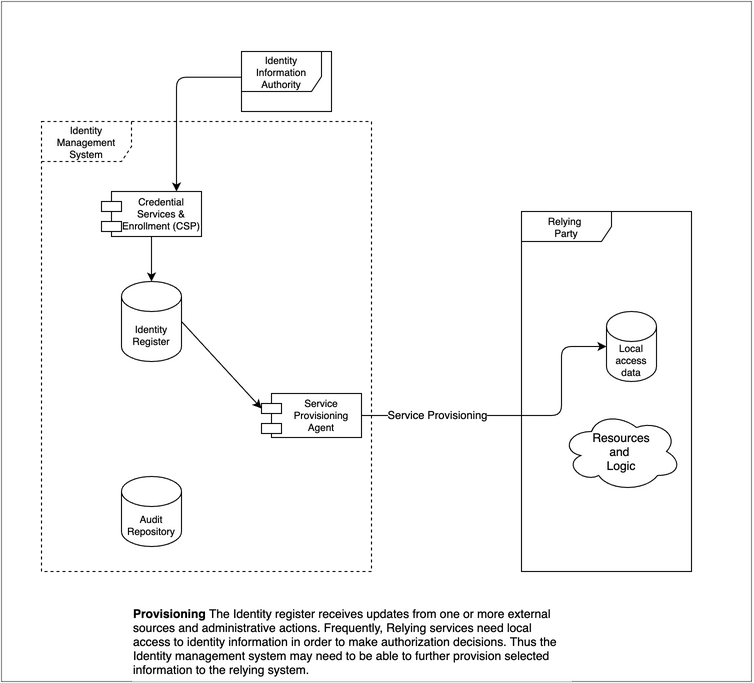
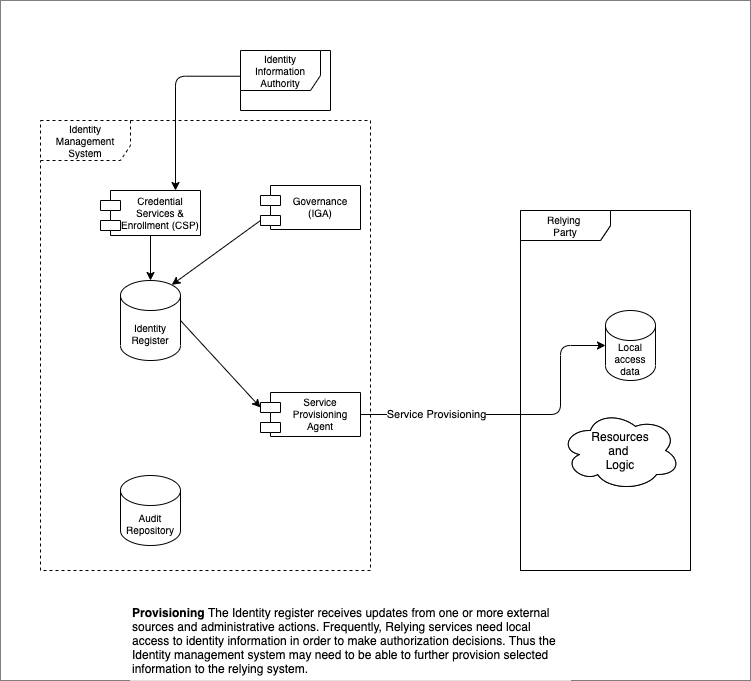
passed through intro part 3

diff --git a/tech-arch.md b/tech-arch.md
@@ -8,11 +8,11 @@ This article provides a reference model to organize the presentation of technica
 
 To move out of the conceptual realm into specifics additional articles follow, each with a focus on a specific technical use-cases. Each such use-case indicates which of the abstract components comprise a particular implementation 
 
-The model is a restatement/extension of the ISO/IEC framing [Note 1]. Some UML detail has been removed for simplicity. The IAM model has been extended so that authorization, governance and risk-control can be included.
+The model is a started with the ISO/IEC framing [Note 1]. The UML detail has been removed for simplicity and the IAM model has been extended so that authorization, governance and risk-control can be included.
 
-Some of the ISO/IEC names have been changed to reflect more common usage. In come cases, the ISO names have been used in a way that is more expansive than their definition.
+Some of the ISO/IEC names have been changed to reflect more common usage. In some cases, the ISO names have been used in a way that is more expansive than their definition.
 
-The model has been reviewed in conjunction with the FICAM, Internet 2, and NIST Zero Trust frameworks.
+The model has been reviewed in conjunction with the FICAM, Internet 2, NIST SP-800-63 definitions, and NIST Zero Trust frameworks and with the Identity Stack presented at Identiverse 2019 in an attempt to adopt the most useful terminology.
 
 Introduction
 ------------
@@ -65,7 +65,7 @@ A credential allows for authentication of an entity by binding an identity to an
 
 ### Credential Services
 
-Credential Services  issue or register the subscriber authenticators, delivers  the credential for use, and subsequently manages the credentials.   FICAM separates this into a first-class component called Credential Management System, which also includes PKI information for federation.  We follow FICAM in this model: so the subscriber will include system components that need certificates and private keys.  We also place the function known as Security Token Service here, including services that translate one type of token into another.
+Credential Services  issue or register the subscriber authenticators, delivers  the credential for use, and subsequently manages the credentials.   FICAM separates this into a first-class component called Credential Management System, which also includes PKI information for federation.  We follow FICAM in this model: so the subscriber will include system components that need certificates and private keys.  
 
 ### Credential Service Provider (CSP)
 
@@ -73,11 +73,11 @@ Following NIST 800-63-3 we include both the enrollment function and credential s
 
 ### Identity Register
 
-This is the data store that contains the enroled entities, and their attributes.  We use this to include the storage related to credentials, although in practice, all or some of the credentials may be stored in their own physical repository.  
+This is the data store that contains the enrolled entities, and their attributes.  In this model we use the singular, as if it were one singular database.  In practice designs may store some attributes separate from identities. We also use this to include the storage related to credentials, although in practice, all or some of the credentials may be stored in their own physical repository.  Identity Registers by their nature have high availability requirements, so often at the physical level they contain multiple instances which are synchronized.  The term Attribute Store is sometimes used as a synonym.
 
 ### Authentication (AUTHN)
 
-The act of determining that the principal/subject is authentic to a level of assurance. In this model this is shown as a collaborative activity between the IMS and the RSVC. The FICAM model, at a more abstract level, includes this in the first-class component called Access Management.
+The act of determining that the principal/subject is authentic to a level of assurance. Depending on the architecture this function may also produce a security token to convey authentication information securely to the RP.
 
 ### Session (SESS)
 
@@ -85,7 +85,15 @@ A period of time after an authentication event when an RSVC grants access to the
 
 ### Authorization (AUTHZ)
 
-Authorization is how a decision is made to allow someone to access a resource. This is not included in the ISO or Internet 2 models. The FICAM framework includes this as a subcomponent of the Access Management System and is more explicit about the location of the implementation of the authorization
+Authorization is how a decision is made at run-time to allow someone to access a resource. This is not included in the ISO or Internet 2 models. The FICAM framework includes this as a subcomponent of the Access Management System and is more explicit about the location of the implementation of the authorization. 
+
+### Entitlement
+
+The artifact that allows access to a resource by a principal.  This is equivalant to privilege, access right, permission.  Sometimes it is called an authorization.  An etitlement can be implmented in a variety of ways.  
+
+### Enforcement 
+
+The mechanism that ensures an individual cannot perform an action or access a system when prohibited by policy. 
 
 ### Access Governance (IGA)
 
@@ -102,30 +110,46 @@ Control data that allows the Identity Management System to recognize and trust t
 Provisioning
 ------------
 
-Provisioning is a term that encompases the processes and methods that create, modify, and, eventually, delete the identity and profile information used by IT infrastructure and business applications. By these method, records are created, or updated in the identity repository, and removed from it.  Often, provisioing needs to extend to applications  to support authorization decisions.
+Provisioning is a term that encompases the processes and methods that create, modify, and, eventually, delete the identity and profile information used by IT infrastructure and business applications. By these method, records are created, or updated in the identity repository, and removed from it.  Often, provisioing needs to extend to applications  to support authorization decisions.  The term "Onboarding" is sometimes used to refer to the sum of the initial provisioning activities, in both the identity and access aspects.
+
+#### Identity Information Authorities
 
 Note that the authoritative sources for identity attributes transcend the HR system and may include the email system, phone system, training certification etc. In some cases, a company may have more than one HR system.
 
 The act of provisioning may include certain logic, best modeled as governance.  In some cases the IGA system actually takes on all the provisioning duties. 
 
-Also note, the notion of importing data does not necessarily mean making a physical copy of data, although it often does. The notion also supports the idea of virtualization - where the import of identity information is done at run-time.
+#### Identity Register
 
 The Identity Register could be implemented in several ways. Common methods include the use of general-purpose databases, optimized stores such directories i.e., a physical or a virtual directory.
 
-Also shown, is the Principal and Credential Management function. This is intended to include steps needed to originate an identity (such as proofing or vetting) as well as on-going maintenance such as password reset and other credential management activities such as token provisioning. This function includes administrative activities and self-serve activities.
+Importing data does not necessarily mean making a physical copy of data, although it often does. The notion also supports the idea of virtualization - where the import of identity information is done at run-time.
 
 Also noted is the function of propagating selected information further into the ecosystem. This typically occurs when a relying services needs additional information about the users, e.g. for the purpose of access control, or personalization. The relying system makes a copy of the identity data and that is used in the application processes. A complete solution will allow for the full lifecycle including creation, update and eventual deletion of the identity data stored locally.
 
+#### Credential Services & Enrollment 
+
+This function includes steps needed to originate and activate an identity. It is also concerned with on-going maintenance such as password reset and key rotation.  This function includes administrative activities and self-serve activities.
+
+##### Enrollment
+
+Also sometimes known as Registration. It involves such activities as proofing, verfication or vetting, and recording sponsorship, if needed.  It also is responsible for the secure delivery of credentials. Enrollment ends when a user formally receives ownership of their digital identity and assumes control/ownership of their account’s credentials. 
+
+##### Credential Services
+
+Credential service include the creation and binding of passwords, cryptographic keys and other authenticators. It is also concerned with on-going maintenance such as password reset and key rotation.  It also is in charge of revoking credentials as needed.
+
+#### Just in Time
+
 So far, the provisioning function is restricted to "admin-time".  However, there are some cases where provisioning occurs at run time. 
 
-Not shown here, but sometimes implemented, are provisioning actions that occur on a just-in-time basis. This can happen when additional identity information is passed to a relying service in real-time to support a specific application requirement, possibly including identity attributes. A similar case involves the relying service querying the identity management system in order to acquire attributes.
+Not shown here, but sometimes implemented, are provisioning actions that occur on a just-in-time basis. This can happen when additional identity information is passed to a relying service in real-time to support a specific application requirement, possibly including identity attributes. A similar case involves the relying service querying the identity management system in order to acquire attributes (Shown under Authorization)
 
 ![Diagram Description automatically generated](resources/provisioning.png){width="6.268055555555556in" height="5.839583333333334in"}
 
 Authentication and sessions
 ---------------------------
 
-Authentication is the process by which a subject's credentials are used to verify their identity. The Identity Management System checks and verifies credentials that are presented to it. Typically, the Relying Service presents the credentials on behalf of the user and receives an assessment from the IMS regarding the level of certainty that the user is authentic. There are multiple scenarios.
+Authentication is the process by which a subject's credentials are used to verify their identity. The Identity Management System checks and verifies credentials that are presented to it. There are multiple scenarios. Typically, the Relying Service presents the credentials on behalf of the user and receives an assessment from the IMS regarding the level of certainty that the user is authentic. Often the assessment (and more information about the user) is delivered to the RP via a security token, which is protected by cryptography. There are several varities of security tokens.  
 
 A common pattern is to associate the authentication event with the start of a session. The session is mostly the concern of the relying system. However, it is sometimes desirable to keep the sessions supported by several relying parties in synch. For instance, logging out of one session will terminate concurrent sessions. To do this, often the Identity Management System will act to orchestrate sessions termination. In high security environments, session management must support termination based on real-time identity data such as when a user's entitlements have been modified.
 
@@ -142,31 +166,73 @@ Authorization models are many and diverse. The diagram illustrates two approache
 
 Both approaches typically use subject attributes help determine access. These values may have been provisioned into a local store, in the Provisioning process described above. Or the values can be acquired at run-time from the Identity Management System as shown by the attribute query.
 
-Many relying services perform authorization tasks internally. Often the fine-grained access control required by a protected resource makes this appealing. For instance, a financial management system may maintain a user's entitlements to specific functionality with the application.
+#### Local Authoriziation
 
-Sometimes authorization is a shared resource for many relying services. This design can improve consistency of authorization decisions and supports organizations wishing to include advanced access decisions strategies such as those required by a \"Zero Trust\" access control approach, as described by NIST 800-207. Shared authorization systems typically have a consistent approach to policy such as a standardized policy language.
+Many relying services perform authorization tasks internally. Often the fine-grained access control required by a protected resource makes this appealing. For instance, a financial management system may maintain a user's entitlements to specific functionality with the application.  In this scenario the application makes the authorization decision and implements (enforces) the result.
+
+#### Shared Authorization
+
+Sometimes authorization is a shared resource for many relying services. This design can improve consistency of authorization decisions and supports organizations wishing to include advanced access decisions strategies such as those required by a \"Zero Trust\" access control approach, as described by NIST 800-207. Shared authorization systems typically have a consistent approach to policy such as a standardized policy language. In this scenario the application ask the shared authorization function to make the decision but implements (enforces) that itself.
+
+#### Layers
+
+This distinction between local and shared authorization is not precisely the same as that between the commonly used terms "coarse-grained" and "fine-grained" access control.  Consider a web-based application that is protected by a reverse proxy.  The user logs-in a the reverse proxy which determines which applications the user has access to.  The reverse proxy implements coarse grained access control only, since the it knows nothing about the fine-grained rules implemented by the application.  
+
+### Authorization Mechanisms
+
+In either approach, the access rights may be established, maintained and revoked in a variety of ways, starting with the existence and validity of the digital identity. Other controls include various mechanisms such as policies, the mapping of roles, permissions, and identities. Some controls rely on user attributes including group memberships or roles stored in an Identity Register. 
+
+Each mechanism relies and a particular logical data structure to implement the access control and that data structure becomes and object of engineering, although it may seem that good results derive from both art and science.  For instance, in role based access control, there is some art involved "Role Management", or defining and managing a useful set of roles, since too many roles becomes difficult to manage and too few leads to users with access to things they don't need. Similarly, in the case of policy based access control the set of policies (the Policy Rules) needs to be stored and managed.
+
+The process of setting up the system to allow for authorization is described in the next section (Access Governance).
 
 ![Diagram Description automatically generated](resources/authorization-models.png){width="6.268055555555556in" height="5.809027777777778in"}
 
-Access governance (IGA)
------------------
+## Access governance (IGA)
 
-Access Governance provides oversight and control over access rights implemented in multiple local or shared authorization systems. These rights may be controlled in a variety of ways, starting with the existence and validity of the digital identity. Other controls include various mechanisms such as policies, the mapping of roles, permissions, and identities. Some controls rely on user attributes including group memberships or roles stored in an Identity Register. Broadly speaking, the controls may also include methods such as procedures and workflows to ensure proper review.
+Access Governance provides control over access rights implemented in multiple local or shared authorization systems. This control is often broken into the administration of these rights and the oversight needed to ensure that these rights are in good order over time.  While this is logically separate from Provisioning, some organizations find it useful to group IGA and Provisioning together under an organzational unit charged with both.
+
+#### Control  
+
+Broadly speaking, the controls may also include methods such as procedures and workflows to ensure proper review
 
 Often deployed to prevent internal fraud is the control labeled segregation of duties.  The control defines groups of access rights that cannot be held by the same person.  This is best done in a location that has visability to all the implicated access rights, i.e. the IGA system.
 
-Typically, governance activities review and may modify the data in one or more of the authorization components in order to effect a change in entitlements.
+#### Oversight
+
+Typically, governance activities review and may modify the data in one or more of the authorization components in order to effect a change in entitlements.  Often organizations will have formal process to review existing entitlements and may require a responsible party to certify or attest that the entitlements are in good order.  Addition tools which provide include evidence that IAM policies are effective at enforcing their stated control include internal and external audits as well as analytic reports.
 
 Access Governance is required in enterprise systems focusing on management of staff (employee/contractor) entitlements. The concept can also apply to customer facing scenarios such as business to business delegated rights or business to customer scenarios where delegation such as power of attorney or other agents are required.
 
+
+
 ![Diagram Description automatically generated](resources/access-governance.png){width="6.268055555555556in" height="5.809027777777778in"}
 
-Risk Context
-------------
+### Risk Context
 
-Risk context information can be valuable to improve the security of the relying service. For example, An authentication or authorization decision may be influenced by specific criteria such as whether an the request is coming from a known or unknown network, or if it is outside the normal usage patterns for a given individual. 
+Risk context information can be valuable to improve the security of the relying service. Risk can be judged based on information in the request, information about the history of the user, or assertions/evidence from third parties.
 
-Such an example depends on signals from the local environment, but it is also possible to obtain signals from further afield.  For example,it is possible to determine commonly used passwords based on postings on the "dark-web".   Bad actors purchase these in the hope that users will use the same password at other sites.  A counter measure is for the Identity Management System operator to require additional certainty if one of those passwords were presented.
+#### Examples: Information in the request
+
+#### Boundary control
+
+An authentication or authorization decision may be influenced by specific criteria such as whether an the request is coming from a known or unknown network.  A more sophisticated version of this attempts to prohibit access from, say certain countries.
+
+#### Examples: Historical usage
+
+##### Usage pattern match
+
+Determine if this request is outside the normal usage patterns for a given individual. The reference to historical usage patterns allows for pattern detection and can help establish a metric for risk for a user, in general, or for a specific transaction.  Such activity can be called risk profiling.
+
+##### Land speed violation
+
+By amending the user's request and history with location information, it is possible identify likely compromised account due to the fact that the user can't be in two places at one.
+
+Such examples depends on signals from the local environment, but it is also possible to obtain signals from further afield.  
+
+#### Example: Third party 
+
+it is possible to determine commonly used passwords based on postings on the "dark-web".   Bad actors purchase these in the hope that users will use the same password at other sites.  A counter measure is for the Identity Management System operator to require additional certainty if one of those passwords were presented.
 
 External events may be visible to the Identity Management System operator through consortia or vendor packages. In some mutual-support scenarios, it may be possible for the IMS operator to also publish events for the benefit of others, supporting a relying party's risk management requirement.
 
@@ -193,6 +259,14 @@ Discovery refers to protocols that facilitate automation. For instance OpenID Co
 
 ![Diagram Description automatically generated](resources/metadata-discovery.png){width="6.268055555555556in" height="4.636805555555555in"}
 
+### Acknowlegements
+
+Thanks to 
+
+Ian Glazer, Graham Williamson, and Corey Scholefeld for detailed review
+
+Jon Lehtinen and Steve Hutchinson for some of the definitions from their unpublished Introduction to Identity Part 3 document.
+
 References
 ----------
 
@@ -201,4 +275,4 @@ References
 3. Internet 2 [[https://playbooks.idmanagement.gov/arch/components/]{.underline}](https://playbooks.idmanagement.gov/arch/components/)
 4.  NIST Zero Trust [[https://nvlpubs.nist.gov/nistpubs/SpecialPublications/NIST.SP.800-207.pdf]{.underline}](https://nvlpubs.nist.gov/nistpubs/SpecialPublications/NIST.SP.800-207.pdf)
 5. OpenID Connect discovery  https://openid.net/specs/openid-connect-discovery-1_0.html
-6. 
+6. NIST SP-800-63
